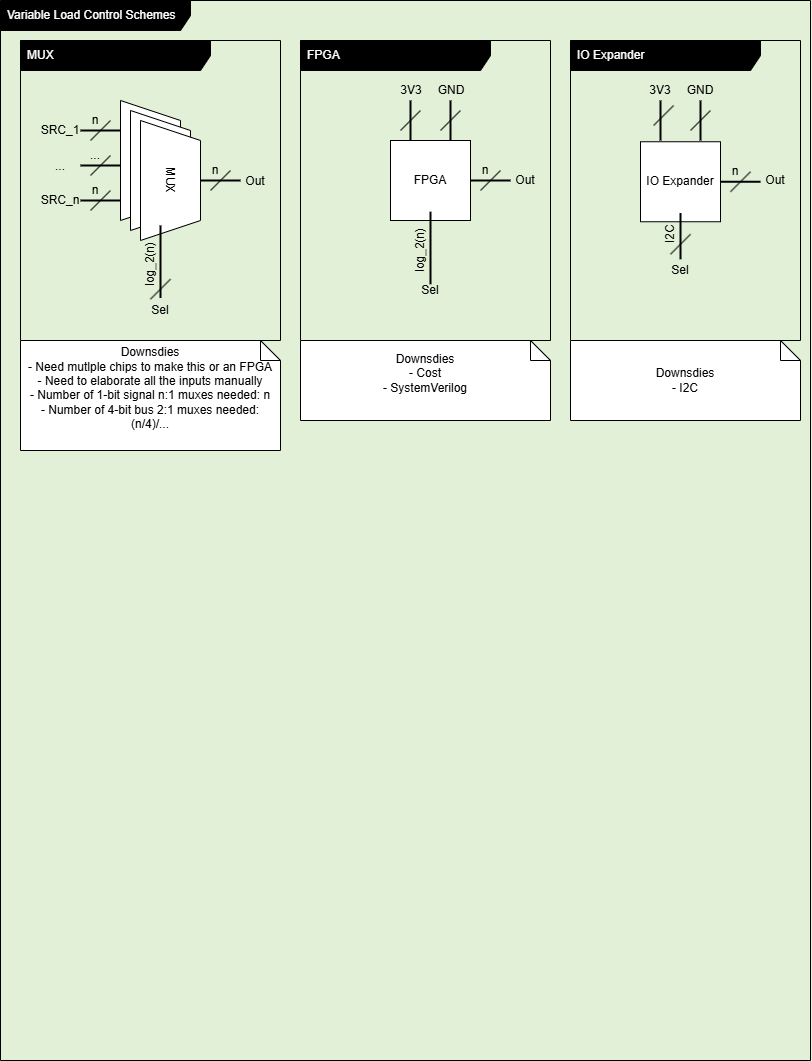
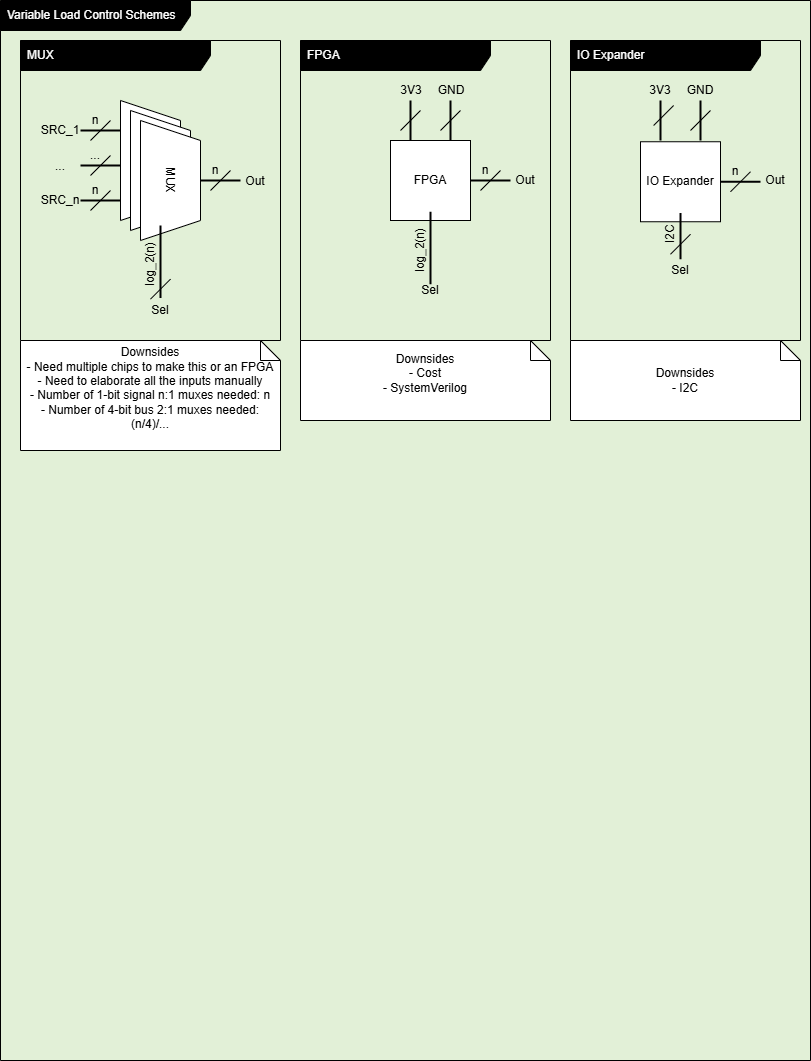
Worked on Spelling and SonarLint issues

diff --git a/2026Core/Net/Net-Phy/AdapterWLAN.cpp b/2026Core/Net/Net-Phy/AdapterWLAN.cpp
@@ -13,6 +13,7 @@
 #include <etl/format_spec.h>
 #include <etl/string.h>
 #include <etl/to_string.h>
+#include <utility>
 
 // MARK: Standard
 
@@ -126,8 +127,8 @@ uint8_t AdapterWLAN::identifyOptimalChannel() {
             ch1RSSITotal += (inverseRSSI * WTbNetConfig::OFFSET_3_WEIGHT);
             ch6RSSITotal += (inverseRSSI * WTbNetConfig::OFFSET_2_WEIGHT);
         } else if (WiFi.channel(i) == 5) { // Ch. 5 overlaps with ch. 1 and 6
-            ch1RSSITotal +=
-                (uint_fast16_t)(inverseRSSI * WTbNetConfig::OFFSET_4_WEIGHT);
+            ch1RSSITotal += (uint_fast16_t)((float)inverseRSSI *
+                                            WTbNetConfig::OFFSET_4_WEIGHT);
             ch6RSSITotal += (inverseRSSI * WTbNetConfig::OFFSET_1_WEIGHT);
         } else if (WiFi.channel(i) == 6) { // Ch. 6
             ch6RSSITotal += (inverseRSSI * WTbNetConfig::OFFSET_0_WEIGHT);
@@ -142,8 +143,8 @@ uint8_t AdapterWLAN::identifyOptimalChannel() {
             ch6RSSITotal += (inverseRSSI * WTbNetConfig::OFFSET_3_WEIGHT);
             ch11RSSITotal += (inverseRSSI * WTbNetConfig::OFFSET_2_WEIGHT);
         } else if (WiFi.channel(i) == 10) { // Ch. 10 overlaps with ch. 6 and 11
-            ch6RSSITotal +=
-                (uint_fast16_t)(inverseRSSI * WTbNetConfig::OFFSET_4_WEIGHT);
+            ch6RSSITotal += (uint_fast16_t)((float)inverseRSSI *
+                                            WTbNetConfig::OFFSET_4_WEIGHT);
             ch11RSSITotal += (inverseRSSI * WTbNetConfig::OFFSET_1_WEIGHT);
         } else if (WiFi.channel(i) == 11) { // Ch. 11
             ch11RSSITotal += (inverseRSSI * WTbNetConfig::OFFSET_0_WEIGHT);
@@ -189,7 +190,7 @@ etl::array<uint8_t, 6> AdapterWLAN::getMACAddress() const {
 
     // Save WiFi configuration
     // const wl_status_t prevWiFIStatus = WiFi.status();
-    const wifi_mode_t orginalWiFiMode = WiFi.getMode();
+    const wifi_mode_t originalWiFiMode = WiFi.getMode();
 
     // if (wiFiMode == WIFI_MODE_NULL) {
     //     ESP_LOGD(TAG, "WiFi not initialized");
@@ -205,8 +206,8 @@ etl::array<uint8_t, 6> AdapterWLAN::getMACAddress() const {
     // }
 
     // Configure WiFi
-    if (!(orginalWiFiMode == WIFI_MODE_STA ||
-          orginalWiFiMode == WIFI_MODE_APSTA)) {
+    if (!(originalWiFiMode == WIFI_MODE_STA ||
+          originalWiFiMode == WIFI_MODE_APSTA)) {
         ESP_LOGV(TAG, "Setting WiFi to STA mode");
         WiFi.mode(WIFI_STA);
     } else {
@@ -226,9 +227,9 @@ etl::array<uint8_t, 6> AdapterWLAN::getMACAddress() const {
     // delay(1000);
 
     // Cleanup WiFi Config Changes
-    if (orginalWiFiMode != WiFi.getMode()) {
+    if (originalWiFiMode != WiFi.getMode()) {
         ESP_LOGV(TAG, "Resetting WifI Mode to Previous");
-        WiFi.mode(orginalWiFiMode);
+        WiFi.mode(originalWiFiMode);
     }
 
     // Check if the operation was successful
@@ -263,6 +264,7 @@ etl::array<uint8_t, 6> AdapterWLAN::getMACAddress() const {
     etl::array<uint8_t, 6> MACAddress = {0};
     std::copy(std::begin(MACAddressTemp), std::end(MACAddressTemp),
               MACAddress.begin());
+    // std::ranges::copy(MACAddressTemp, MACAddress.begin()); //todo
     ESP_LOGV(TAG, "MACAddr: %d%d:%d%d:%d%d:", MACAddress.at(0),
              MACAddress.at(1), MACAddress.at(2), MACAddress.at(3),
              MACAddress.at(4), MACAddress.at(5));
@@ -334,7 +336,8 @@ bool AdapterWLAN::begin(
 
 bool AdapterWLAN::setMaxTxPower(TxDbmToESP txPower) {
     // Set the maximum transmit power
-    if (esp_wifi_set_max_tx_power((int8_t)txPower) != ESP_OK) {
+    if (esp_wifi_set_max_tx_power((int8_t)std::to_underlying(txPower)) !=
+        ESP_OK) {
         ESP_LOGE(TAG, "Failed to set max tx power");
         return false;
     }

diff --git a/2026Core/Net/Net-Link/AdapterUHCI.hpp b/2026Core/Net/Net-Link/AdapterUHCI.hpp
@@ -54,16 +54,16 @@ class AdapterUHCI : public NetAdapter_A {
      * @see
      * https://stackoverflow.com/questions/612328/difference-between-struct-and-typedef-struct-in-c
      */
-    typedef struct {
+    using Pins = struct {
         int tx;
         int rx;
-    } Pins;
+    };
 
     /**
      * @brief Construct a new UHCI network adapter object
      * @param pins A struct/pair of integers representing the TX and RX pins
      */
-    AdapterUHCI(const Pins pins);
+    explicit AdapterUHCI(const Pins pins);
     ~AdapterUHCI() = default;
 
     /**
@@ -148,10 +148,10 @@ class AdapterUHCI : public NetAdapter_A {
      * @see
      * https://github.com/espressif/esp-idf/blob/v5.5.1/examples/peripherals/uart/uart_dma_ota/main/uart_dma_ota_example_main.c
      */
-    typedef enum {
+    using uhci_event_t = enum {
         UHCI_EVT_PARTIAL_DATA,
         UHCI_EVT_EOF,
-    } uhci_event_t;
+    };
 
     /**
      * @see https://stackoverflow.com/a/49915536
@@ -193,25 +193,25 @@ class AdapterUHCI : public NetAdapter_A {
         "Atomic operations on int are only sometimes lock-free on this platform."
 #endif
 
-    typedef struct {
+    using NetStats_T = struct {
         std::atomic<uint_fast32_t> bits = 0;
         std::atomic<uint_fast32_t> packets = 0;
         std::atomic<uint_fast32_t> dataRate_bpuS = 0;
         uint_fast32_t lastStatUpdate_uS = 0;
-    } NetStats_T;
+    };
 
-    typedef struct {
+    using RxContext_t = struct {
         QueueHandle_t uhci_queue = uHCIRxQueue;
         size_t receive_size = 0;
         // NetStats_T stats;
         uint8_t *p_receive_data = nullptr;
-    } RxContext_t;
+    };
 
-    typedef struct {
+    using UHCI_Context_t = struct {
         RxContext_t rx;
         NetStats_T rxStats;
         NetStats_T txStats;
-    } UHCI_Context_t;
+    };
 
     // Working
     uhci_controller_handle_t uhci_ctrl;

diff --git a/2026Core/Net/Net-Link/AdapterUHCI.cpp b/2026Core/Net/Net-Link/AdapterUHCI.cpp
@@ -10,7 +10,7 @@
 #include "esp_log.h"
 #include <Arduino.h>
 
-// MARK: Constructorss
+// MARK: Constructors
 /**
  * @see
  * https://docs.espressif.com/projects/esp-idf/en/v5.5.1/esp32s3/api-reference/peripherals/uhci.html
@@ -94,11 +94,11 @@ AdapterUHCI::txDoneCallback(uhci_controller_handle_t uhci_ctrl,
      * @details parameter `user_ctx` is parsed by the third parameter of
      * function`uhci_register_event_callbacks`
      */
-    UHCI_Context_t *ctx = (UHCI_Context_t *)user_ctx;
+    auto *ctx = (UHCI_Context_t *)user_ctx;
     NetStats_T &stats = ctx->txStats;
 
     // Record performance metrics
-    uint_fast32_t currentTime_uS = (uint_fast32_t)micros();
+    auto currentTime_uS = (uint_fast32_t)micros();
 
     stats.bits += edata->sent_size;
     stats.packets++;
@@ -125,7 +125,7 @@ IRAM_ATTR bool AdapterUHCI::rxEventCallback(uhci_controller_handle_t uhci_ctrl,
      * @details parameter `user_ctx` is parsed by the third parameter of
      * function`uhci_register_event_callbacks`
      */
-    UHCI_Context_t *ctx = (UHCI_Context_t *)user_ctx;
+    auto *ctx = (UHCI_Context_t *)user_ctx;
     RxContext_t *rxCtx = &ctx->rx;
     NetStats_T &stats = ctx->rxStats;
 
@@ -140,7 +140,7 @@ IRAM_ATTR bool AdapterUHCI::rxEventCallback(uhci_controller_handle_t uhci_ctrl,
         // memcpy(ctx->p_receive_data, edata->data, edata->recv_size);
 
         // Record performance metrics
-        uint_fast32_t currentTime_uS = (uint_fast32_t)micros();
+        auto currentTime_uS = (uint_fast32_t)micros();
 
         stats.bits += edata->recv_size;
         stats.packets++;

diff --git a/2026Core/Net/Net-Application/NTP.cpp b/2026Core/Net/Net-Application/NTP.cpp
@@ -20,15 +20,13 @@
 
 SyncedClock::SyncedClock(NetAdapter_A &netAdapter) : netAdapter(netAdapter) {}
 
-SyncedClock::~SyncedClock() {}
-
 bool SyncedClock::initTimeSync(const etl::array<uint8_t, 6> upstreamMAC) {
     // Get time data
     timeSyncInit_micros = micros();
     ESP_LOGV(TAG, "Time sync init at %lu micros", timeSyncInit_micros);
 
     // Convert to byte array
-    const uint8_t *timeSyncInit_data =
+    const auto *timeSyncInit_data =
         reinterpret_cast<const uint8_t *>(&timeSyncInit_micros);
     etl::array<uint8_t, WTbNetConfig::MAX_PACKET_DATA_LENGTH> data = {
         timeSyncInit_data[0], timeSyncInit_data[1], timeSyncInit_data[2],
@@ -36,7 +34,7 @@ bool SyncedClock::initTimeSync(const etl::array<uint8_t, 6> upstreamMAC) {
     ESP_LOGV(TAG, "Converted time sync init to byte array");
 
     // Convert to packet
-    Packet packet = Packet(data, (uint8_t)sizeof(timeSyncInit_micros),
+    auto packet = Packet(data, (uint8_t)sizeof(timeSyncInit_micros),
                            Packet::PacketType::NTPRequest);
     ESP_LOGV(TAG, "Created packet");
 
@@ -57,7 +55,7 @@ bool SyncedClock::requestHandler(const etl::array<uint8_t, 6> upstreamMAC) {
             currentTime_data[3]};
 
         // Convert to packet
-        Packet packet = Packet(data, (uint8_t)sizeof(currentTime_micros),
+        auto packet = Packet(data, (uint8_t)sizeof(currentTime_micros),
                                Packet::PacketType::NTPRequest);
 
         return netAdapter.send(upstreamMAC, packet, true);

diff --git a/2026Core/Net/Net-Application/Telnet.hpp b/2026Core/Net/Net-Application/Telnet.hpp
@@ -15,7 +15,7 @@ namespace TELENT {
 
     // MARK: Objects
     ESPTelnet telnet;
-    IPAddress ip;
+    IPAddress localIP;
     EscapeCodes ansi;
 
     // TODO: WIFI - switch to net adapter
@@ -106,10 +106,10 @@ namespace TELENT {
         connectToWiFi(WIFI_SSID, WIFI_PASSWORD);
 
         if (isConnected()) {
-            ip = WiFi.localIP();
+            localIP = WiFi.localIP();
             Serial.println();
             Serial.print("- Telnet: ");
-            Serial.print(ip);
+            Serial.print(localIP);
             Serial.print(":");
             Serial.println(port);
             setupTelnet();

diff --git a/2026Core/Tags.hpp b/2026Core/Tags.hpp
@@ -10,7 +10,7 @@ namespace Tags {
         RESERVED = 0x00,
         NET_APP_NTP = 0x10,
         NET_LINK_ESPNOW = 0x20,
-        NET_LINK_UCHI = 0x20,
+        NET_LINK_UHCI = 0x20,
         NET_LINK_PACKET = 0x20,
         NET_PHY_WLAN = 0x30,
         NET_ADAPTER = 0x40,
@@ -32,8 +32,8 @@ namespace Tags {
             return "NET_APP_NTP";
         } else if (tag == Tags::NET_LINK_ESPNOW) {
             return "NET_LINK_ESPNOW";
-        } else if (tag == Tags::NET_LINK_UCHI) {
-            return "NET_LINK_UCHI";
+        } else if (tag == Tags::NET_LINK_UHCI) {
+            return "NET_LINK_UHCI";
         } else if (tag == Tags::NET_LINK_PACKET) {
             return "NET_LINK_PACKET";
         } else if (tag == Tags::NET_PHY_WLAN) {

diff --git a/2026Core/Net/Net-Application/NTP.hpp b/2026Core/Net/Net-Application/NTP.hpp
@@ -34,8 +34,8 @@ class SyncedClock {
      * @brief Construct a new Synced Clock object
      * @param netAdapter the network adapter to use for time sync
      */
-    SyncedClock(NetAdapter_A &netAdapter);
-    ~SyncedClock();
+    explicit SyncedClock(NetAdapter_A &netAdapter);
+    ~SyncedClock() = default;
 
     /**
      * @brief Initialize time synchronization

diff --git a/2026Core/Net/Net-Link/Packet.cpp b/2026Core/Net/Net-Link/Packet.cpp
@@ -7,7 +7,7 @@
 
 /* MARK: Standard Functions */
 
-Packet::Packet() {};
+Packet::Packet() = default;;
 
 Packet::Packet(etl::array<uint8_t, WTbNetConfig::MAX_PACKET_ABS_LEN> &bin,
                const uint_fast8_t dataLength) {
@@ -61,7 +61,7 @@ void Packet::setContents(
         handlingCode = handlingCode && HANDLE_ID_NET_MASK;
     }*/
     // Set the header
-    dataBuffer[0] = (HEADER_VERSION << HANDLE_ID_LEN_BITS) + handlingCode;
+    dataBuffer[0] = (uint8_t)(HEADER_VERSION << HANDLE_ID_LEN_BITS) + handlingCode; // todo check var types
 
     // Validate the data length
     if (dataLength > WTbNetConfig::MAX_PACKET_DATA_LENGTH) {

diff --git a/2026Core/Net/Net-Phy/AdapterWLAN.hpp b/2026Core/Net/Net-Phy/AdapterWLAN.hpp
@@ -193,7 +193,7 @@ class AdapterWLAN : public NetAdapter_A {
     sendAll(const etl::array<uint8_t, WTbNetConfig::MAX_PACKET_ABS_LEN> &data,
             const uint_fast8_t bytesValid) override;
 
-  protected:
+//   protected:
   private: // MARK: Private
     /**
      * @brief Get the maximum configured transmit power

diff --git a/2026Core/Net/NetAdapter_A.hpp b/2026Core/Net/NetAdapter_A.hpp
@@ -22,7 +22,7 @@
  * required for a Network Adapter
  */
 class NetAdapter_A {
-  protected:
+  // protected:
     /* MARK: Protected Member Variables */
 
     // etl::array<uint8_t, 6> MACAddress;